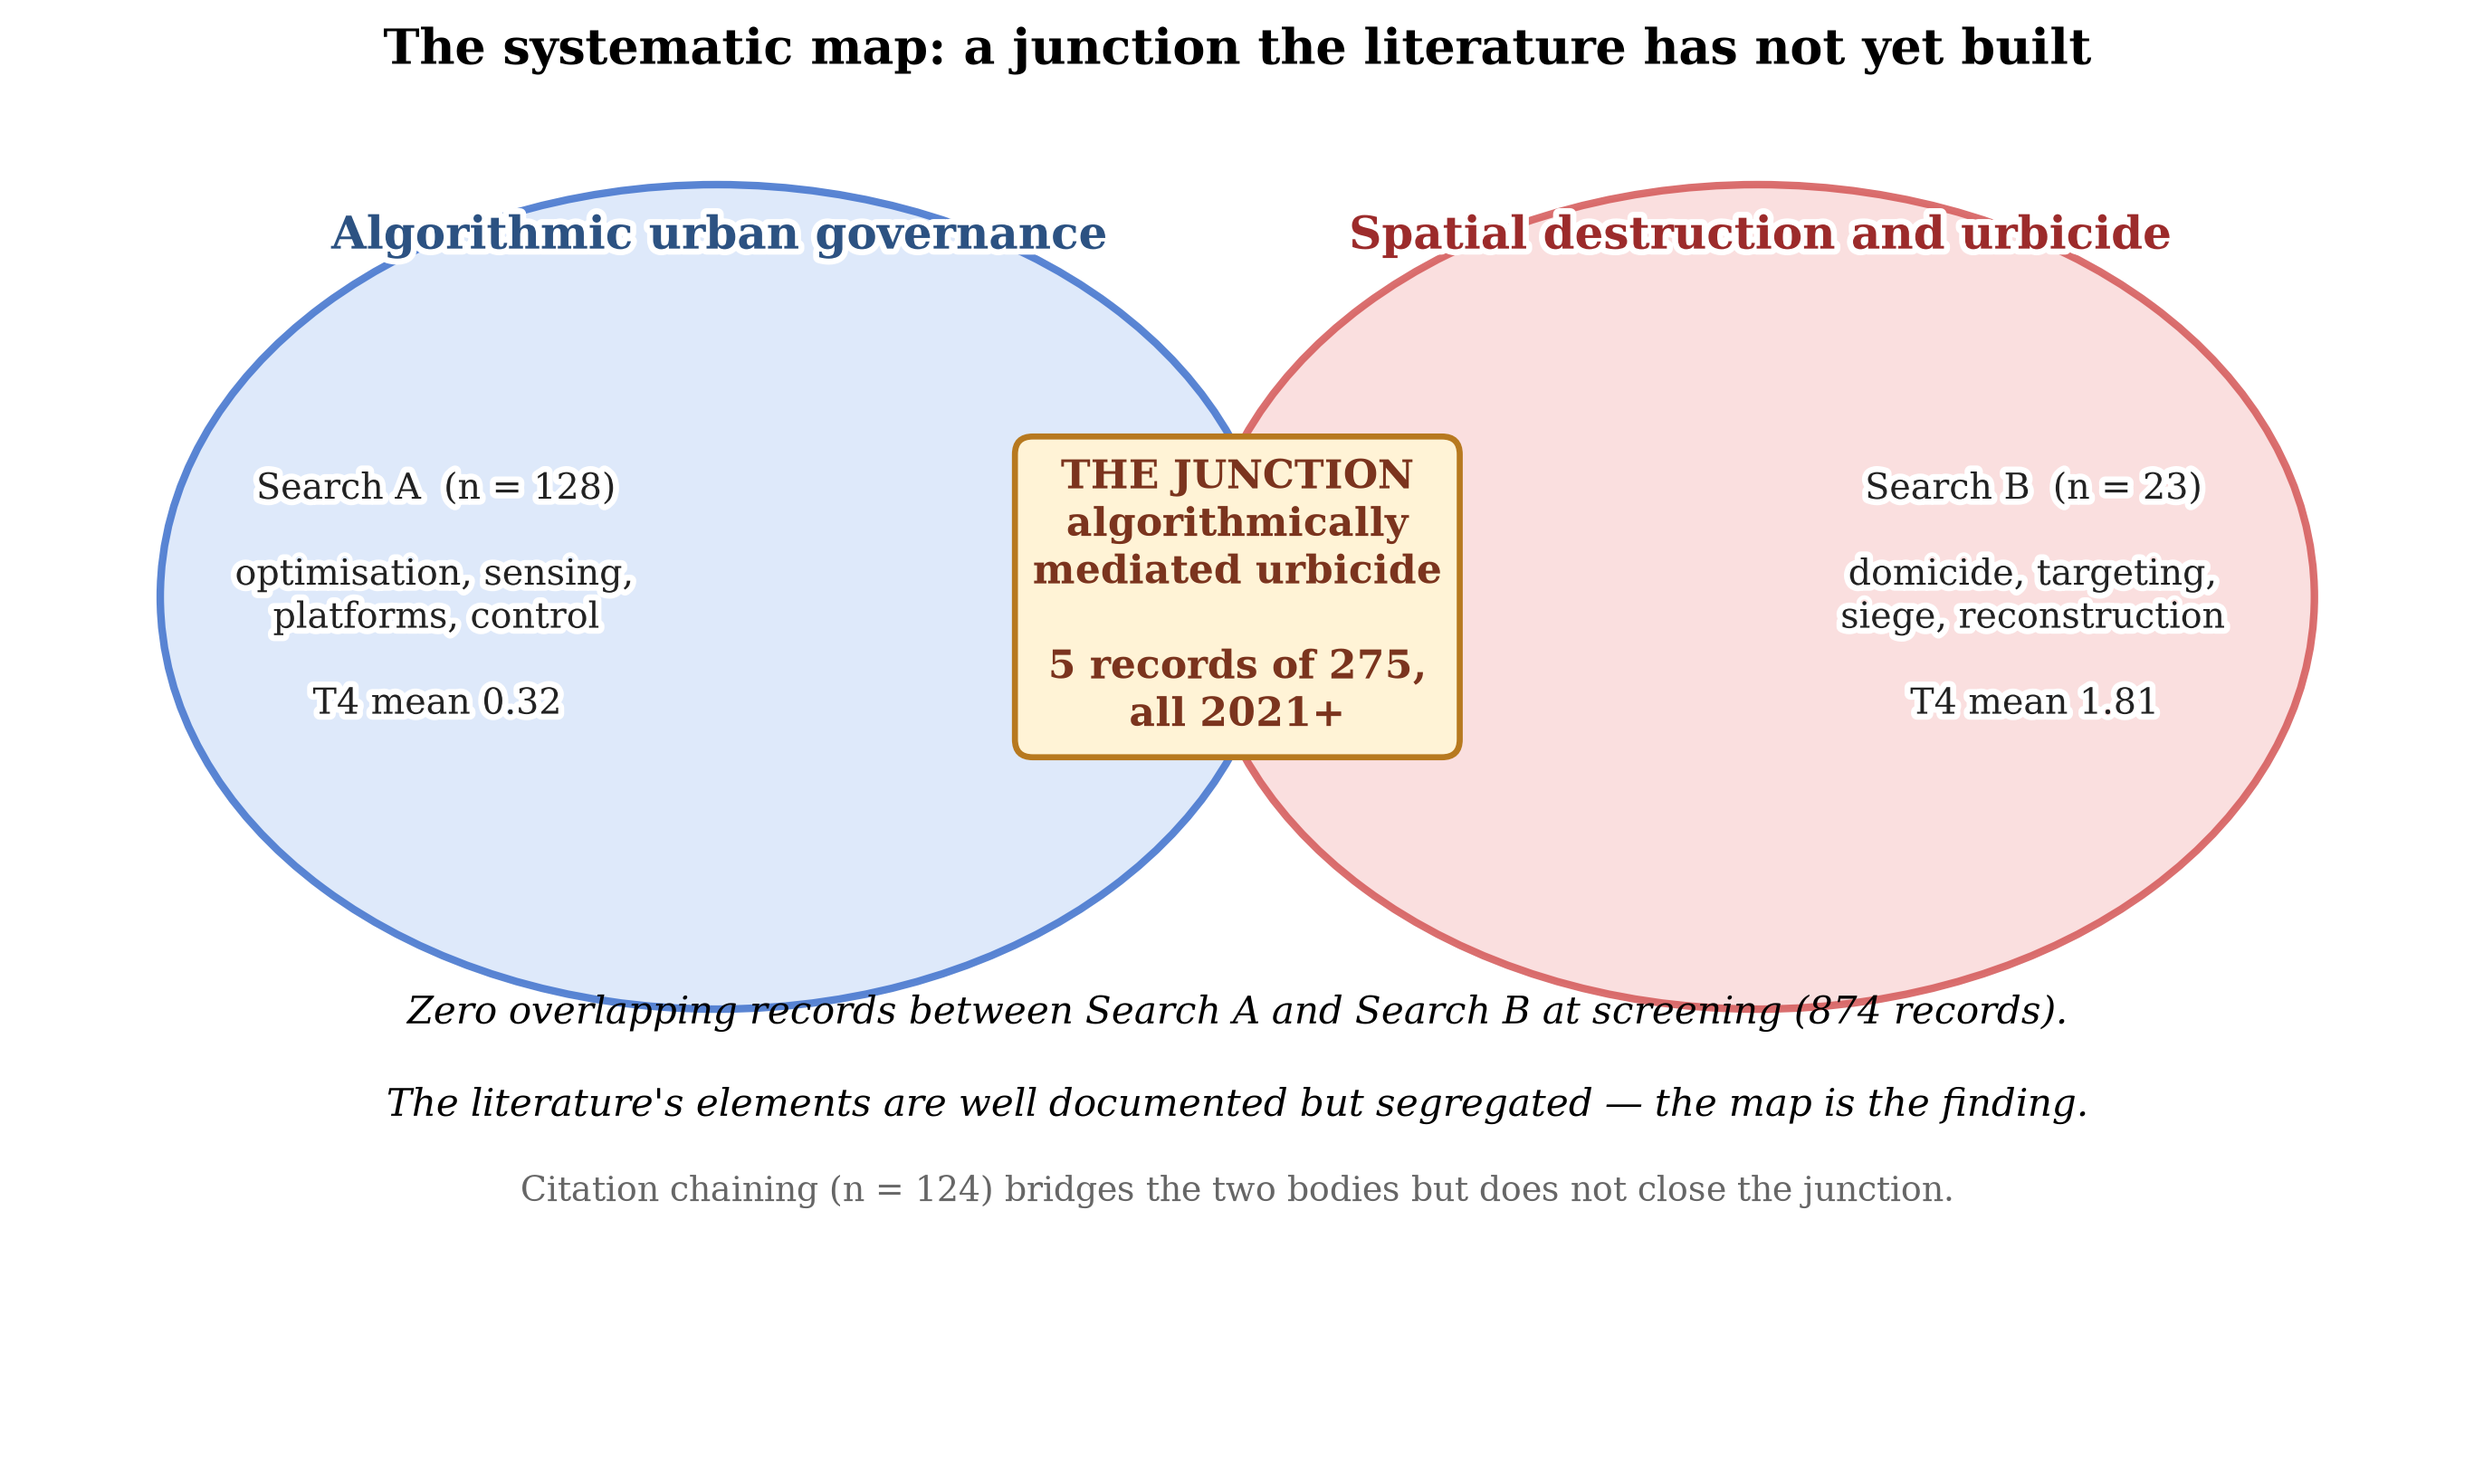
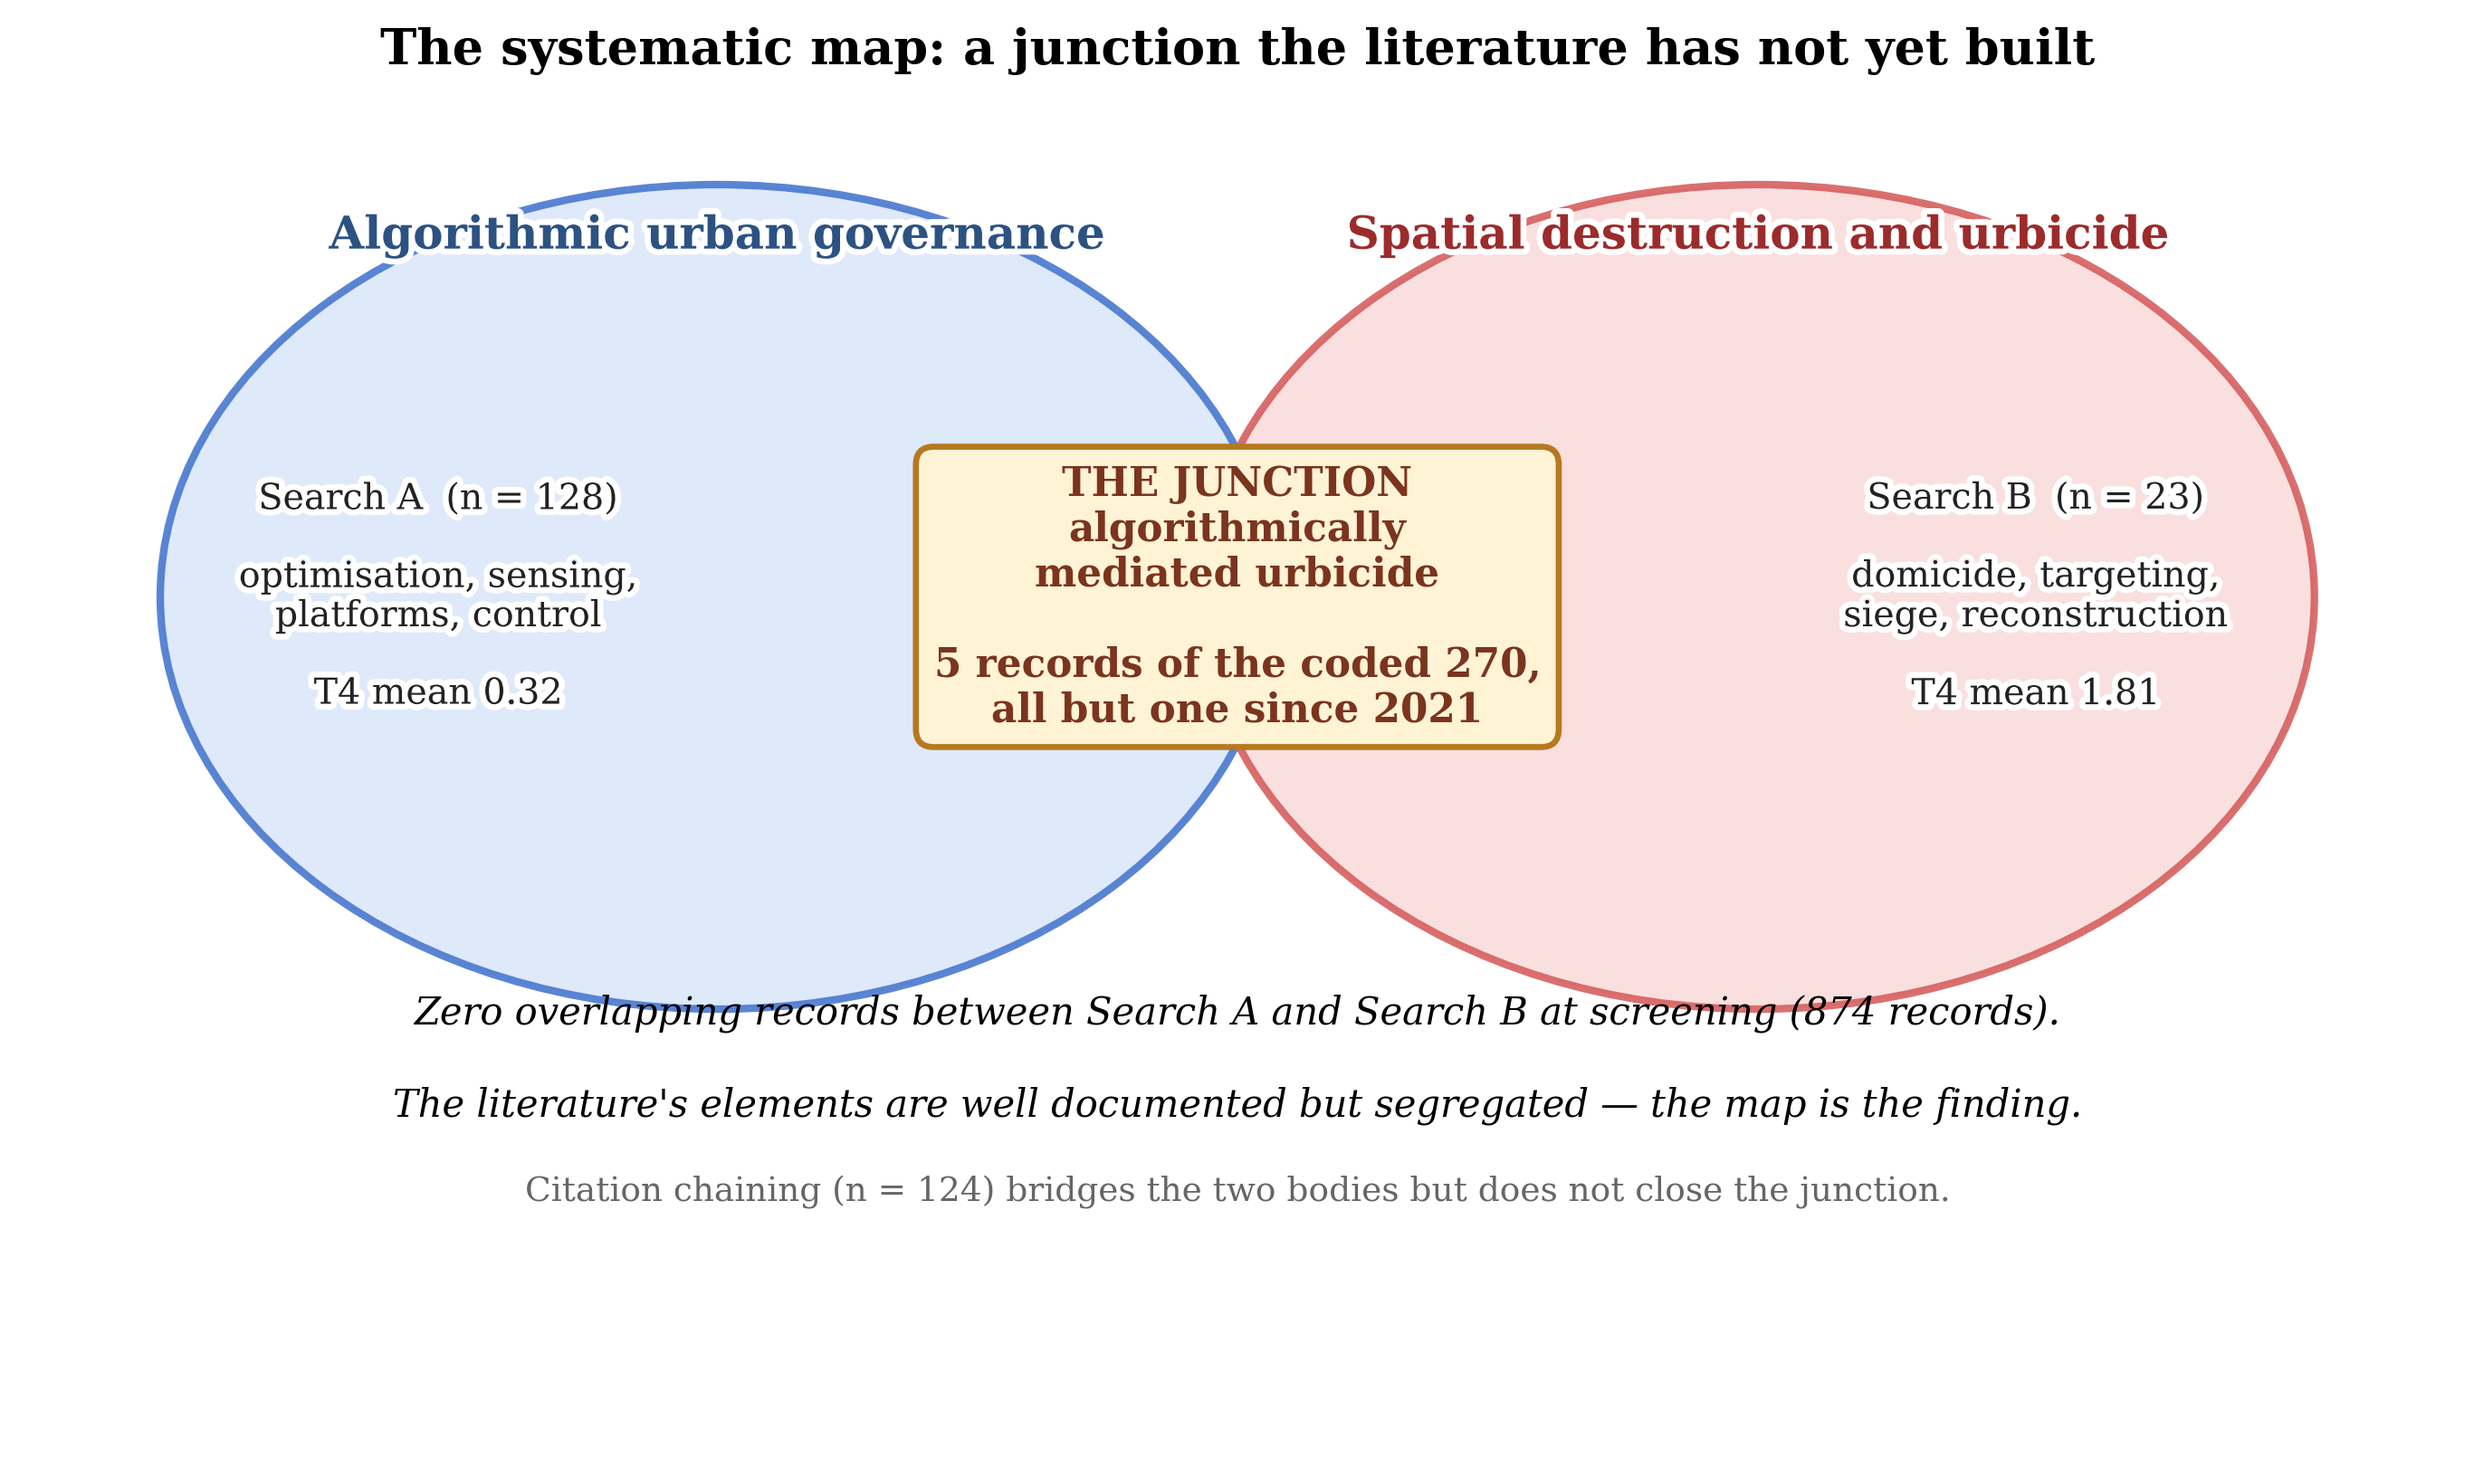
Fix fig 6.1 junction map text: '5 records of the coded 270, all but one since 2021' (was '5 records of 275, all 2021+')

diff --git a/final-draft/figures/final_figures_2026-08-06.py b/final-draft/figures/final_figures_2026-08-06.py
@@ -220,7 +220,7 @@ save(fig, "fig_5_1_theme_by_strategy.png")
 
 # =================================================================
 # Fig 6.1 — The junction the literature has not built (Ch6 "map")
-# Grounded: T4-G cluster = 5 records, all 2021+ (thematic_synthesis.md:157)
+# Grounded: T4-G cluster = 5 records, all but one 2021+ (Graham 2008 the precursor)
 # =================================================================
 fig, ax = plt.subplots(figsize=(11.5, 6.8)); ax.set_xlim(0, 1); ax.set_ylim(0, 1); ax.axis("off")
 ax.add_patch(mp.Ellipse((0.285, 0.60), 0.46, 0.58, fc="#DBE7FA", ec=PAL["A"], lw=2, alpha=0.9))
@@ -231,7 +231,7 @@ ax.text(0.17, 0.60, "Search A  (n = 128)\n\noptimisation, sensing,\nplatforms, c
         ha="center", va="center", fontsize=9.5, color=PAL["ink"], path_effects=HALO)
 ax.text(0.83, 0.60, "Search B  (n = 23)\n\ndomicide, targeting,\nsiege, reconstruction\n\nT4 mean 1.81",
         ha="center", va="center", fontsize=9.5, color=PAL["ink"], path_effects=HALO)
-ax.text(0.5, 0.60, "THE JUNCTION\nalgorithmically\nmediated urbicide\n\n5 records of 275,\nall 2021+",
+ax.text(0.5, 0.60, "THE JUNCTION\nalgorithmically\nmediated urbicide\n\n5 records of the coded 270,\nall but one since 2021",
         ha="center", va="center", fontsize=10.5, fontweight="bold", color="#7B341E",
         bbox=dict(boxstyle="round,pad=0.45", fc="#FFF3D6", ec=PAL["gold"], lw=1.6))
 ax.text(0.5, 0.30, "Zero overlapping records between Search A and Search B at screening (874 records).",
